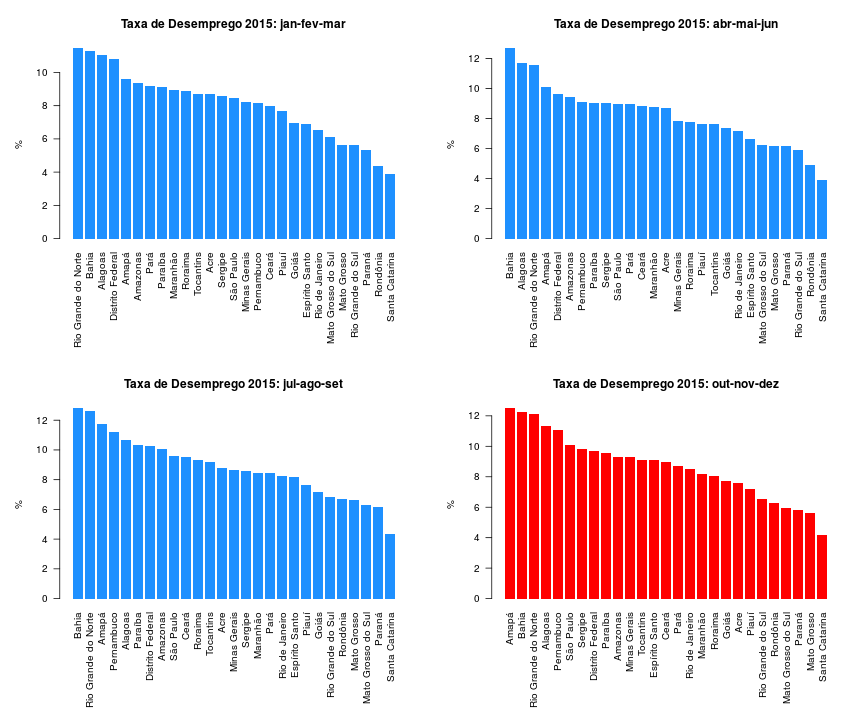
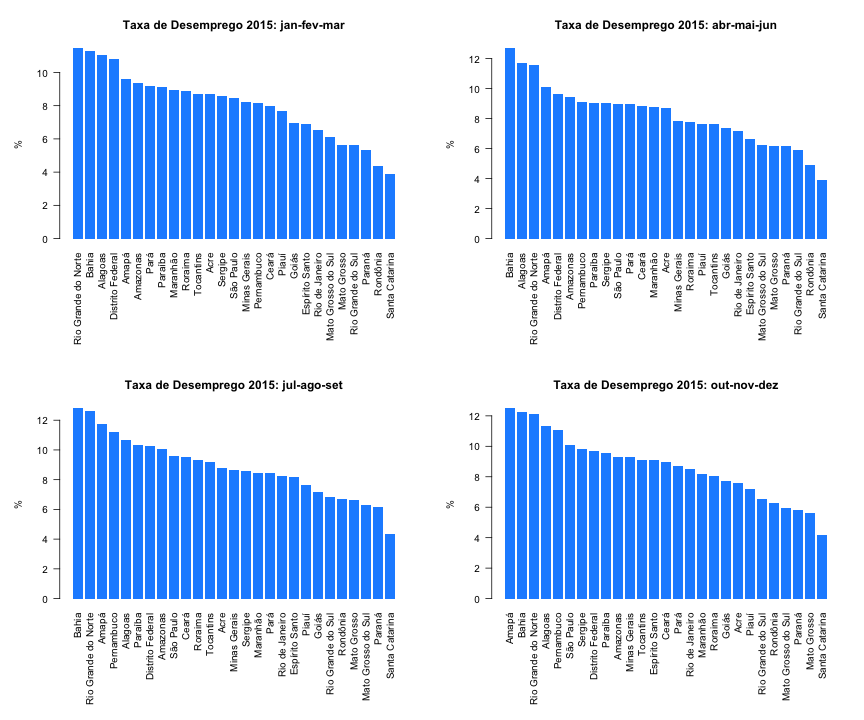
complementando kit 6

diff --git a/source/_posts/2016-04-11-kit-de-sobrevivencia-em-r-parte-6.md b/source/_posts/2016-04-11-kit-de-sobrevivencia-em-r-parte-6.md
@@ -15,15 +15,95 @@ No último post, você aprendeu um pouco sobre os tipos de dados e como realizar
 
 Para exemplificar, utilizaremos os dados de taxas de desemprego que estão disponíveis [neste link](https://www.dropbox.com/s/4tedgnkd85c5q5s/desemprego_uf_pnad.zip?dl=0).
 
-Primeiramente, carregue os dados:
+Antes de mais nada, carregue os dados:
 
 {% highlight r %}
 desemprego.uf <- read.table("desemprego_uf_espaco.txt", sep = " ", dec = ",", stringsAsFactors = FALSE)
 {% endhighlight %}
+# Intuição sobre Loops
+
+Trata-se de um dos conceitos mais importntes de qualquer linguagem de programação. Em R não é diferente. Loops (ou laços) repetem uma sequência de comando quantas vezes você desejar, ou até que uma condição aconteça, variando alguns aspectos entre uma repetição e outra.
+
+Supondo que você queira testar uma simples expressão para 5 valores diferentes, por exemplo:
+
+
+{% highlight r %}
+x <- 2
+(x + x*2 + x^2 + x^x)
+{% endhighlight %}
+
+
+
+{% highlight text %}
+## [1] 14
+{% endhighlight %}
+
+
+
+{% highlight r %}
+x <- 3
+(x + x*2 + x^2 + x^x)
+{% endhighlight %}
+
+
+
+{% highlight text %}
+## [1] 45
+{% endhighlight %}
+
+
+
+{% highlight r %}
+x <- 4
+(x + x*2 + x^2 + x^x)
+{% endhighlight %}
+
+
+
+{% highlight text %}
+## [1] 284
+{% endhighlight %}
+
+
+
+{% highlight r %}
+x <- 5
+(x + x*2 + x^2 + x^x)
+{% endhighlight %}
+
+
+
+{% highlight text %}
+## [1] 3165
+{% endhighlight %}
+
+> Dica: parêntesis em volta de uma expressão faz R mostra o resultado imediatamente 
+
+Repare que você executou 5 vezes o mesmo comando alterando apenas o valor da variável `x`. 5 ainda parece uma quantidade pequena, mas vamos supor que você gostaria de testar essa expressão para 1000 valores? Escreveria ela 1000 vezes? Esse é um típico caso para o uso de loops!
 
 ## for()
 
-O `for()` é usado para realizar uma série de ordens para uma determinada sequência ou índices. No exemplo abaixo, faremos um _loop_ simples, mas que deixa claro como o `for()` funciona. Suponha que você necessita gerar um único plot com quatro gráficos, um para cada trimestre de 2015, da taxa de desemprego por unidade da federação.
+O `for()` é usado para realizar uma série de ordens para uma determinada sequência ou índices. Aplicando ao exemplo acima, temos a seguinte sintaxe:
+
+
+{% highlight r %}
+for(x in c(1, 2, 3, 4, 5)) {
+  print(x + x*2 + x^2 + x^x)
+}
+{% endhighlight %}
+
+
+
+{% highlight text %}
+## [1] 5
+## [1] 14
+## [1] 45
+## [1] 284
+## [1] 3165
+{% endhighlight %}
+Repare, você escreveu bem menos e o resultado foi idêntico: "para cada `x` igual a cada item na sequência `c(1, 2, 3, 4, 5)`, execute `print(x + x*2 + x^2 + x^x)`". O `for()` irá repetir todas as instruções dentro das chaves `{ }`, tantas quantas forem os elementos da sua sequência (vetor)
+
+Vamos a um exemplo mais útil que deixa mais claro como o `for()` funciona. Suponha que você necessita gerar um único plot com quatro gráficos, um para cada trimestre de 2015, da taxa de desemprego por unidade da federação.
 
 Para facilitar, iremos criar um novo data.frame em que estejam selecionadas somente as linhas em que a variável ano é igual a 2015:
 
@@ -32,7 +112,9 @@ Para facilitar, iremos criar um novo data.frame em que estejam selecionadas some
 desemprego.uf.2015 <- desemprego.uf[desemprego.uf$Ano == 2015,]
 {% endhighlight %}
 
-Perceba que no código base do R, para selecionar linhas de um data.frame, você utiliza o `[,]`. A vírgula divide as duas dimensões do data.frame. Assim, se o desejo é selecionar linhas, são utilizadas condições antes da vírgula. Para selecionar colunas, utiliza-se códigos após a vírgula. Funciona de maneira similar a uma matriz. No entanto, esta não é a única maneira de realizar esse filtro nos dados. Por exemplo, você poderia obter o mesmo resultado usando a função `subset()`. Dê uma olhadinha no help.
+Perceba que no código base do R, para selecionar linhas de um data.frame, você utiliza o `[,]`. A vírgula divide as duas dimensões do data.frame. Assim, se o desejo é selecionar linhas, são utilizadas condições antes da vírgula. Para selecionar colunas, utiliza-se códigos após a vírgula. Funciona de maneira similar a uma matriz. 
+
+No entanto, esta não é a única maneira de realizar esse filtro nos dados. Por exemplo, você poderia obter o mesmo resultado usando a função `subset()`. Dê uma olhadinha no help.
 
 Além disso, iremos criar um vetor com os trimestres que serão usados como base para realização do loop.
 
@@ -50,7 +132,8 @@ trimestre
 ## Levels: abr-mai-jun jan-fev-mar jul-ago-set out-nov-dez
 {% endhighlight %}
 
-Antes de criar o plot, vamos realizar um exemplo simples para exemplificar como o `for()` funciona.
+Vamos treinar o `for()` exibindo todos os valores da variável `trimestre`.
+
 
 {% highlight r %}
 for(i in trimestre){
@@ -67,7 +150,8 @@ for(i in trimestre){
 ## [1] "out-nov-dez"
 {% endhighlight %}
 
-Ele realizará a operação que está entre as `{}` para cada `i` do vetor trimestre. Você também pode passar números que poderão ser usados como índices.
+Você também pode passar números que poderão ser usados como índices.
+
 
 {% highlight r %}
 x <- c(1, 4, 5, 6, 10)
@@ -86,9 +170,11 @@ for(i in 1:5){
 ## [1] 10
 {% endhighlight %}
 
-Agora, vamos definir alguns parâmetros do plot. Aqui usaremos o recurso base do R para geração dos gráficos. Atualmente, uma boa parte dos usuários (inclusive a gente) utiliza o [ggplot2](http://docs.ggplot2.org/current/). Com um pouco de criatividade e uma boa base de dados você poderá criar gráficos como o que está [neste post](https://medium.com/airbnb-engineering/using-r-packages-and-education-to-scale-data-science-at-airbnb-906faa58e12d#.z39ukskpb) do Airbnb. Os parâmetros do plot serão definidos usando a função `par()`. Utilize o `?par` para ver mais detalhes sobre esta função e as opções disponíveis.
+Agora vamos definir alguns parâmetros do plot. Aqui usaremos o recurso base do R para geração dos gráficos. Atualmente, uma boa parte dos usuários (inclusive a gente) utiliza o [ggplot2](http://docs.ggplot2.org/current/). 
 
+Com um pouco de criatividade e uma boa base de dados você poderá criar gráficos como o que está [neste post](https://medium.com/airbnb-engineering/using-r-packages-and-education-to-scale-data-science-at-airbnb-906faa58e12d#.z39ukskpb) do Airbnb. Não entraremos em detalhes sobre gráficos agora, mas prometemos uma sequência de posts ensinando todos os principais aspectos da confecção de gráficos, aguarde!
 
+Os parâmetros do plot serão definidos usando a função `par()`. Utilize o `?par` para ver mais detalhes sobre esta função e as opções disponíveis.
 
 
 {% highlight r %}
@@ -100,9 +186,9 @@ par(mfrow = c(2,2), # O plot terá 2 linhas e 2 colunas
 O código abaixo traz o loop. Temos 4 operações dentro do loop:
 
 * Criar o data.frame `dados.tmp` a partir de um filtro no data.frame `desemprego.uf.2015`. Queremos somente as linhas em que o Trimestre é igual a `i`.
-* Usando a função `order()`, ordenar as linhas dos `dados.tmp` de forma decrescente pelo valor da taxa de desemprego.
+* Usando a função `order()`, ordenar as linhas dos `dados.tmp` de forma decrescente pelo valor da taxa de desemprego. Vide `?order()`.
 * Criar um objeto de texto que trará o título de cada gráfico. Usamos a função `paste()` que tem o papel de concatenar o que for passado como argumento. Usamos espaço como separador, mas você pode passar qualquer separador entre as aspas. Esta função tem mais um parâmetro: `collapse`. Dê uma olhada no help para ver alguns exemplos. Note também que ele já tem um valor padrão `NULL`.
-* Por fim, usamos o `barplot()` para criar o gráfico de barra.
+* Por fim, usamos o `barplot()` para criar o gráfico de barra. Vide `?barplot()`.
 
 
 {% highlight r %}
@@ -121,13 +207,15 @@ for(i in trimestre){
 
 Veja o resultado:
 
-![plot of chunk unnamed-chunk-9](/figures/source/2016-04-11-kit-de-sobrevivencia-em-r-parte-6/unnamed-chunk-9-1.png)
+![plot of chunk unnamed-chunk-11](/figures/source/2016-04-11-kit-de-sobrevivencia-em-r-parte-6/unnamed-chunk-11-1.png)
 
-O gif abaixo mostra como o R vai inserindo gráfico a gráfico. Adicionei o comando `Sys.sleep()` para que a execução fosse suspensa durante 1,5 segundo para ficar mais claro a criação de cada gráfico.
+O gif abaixo mostra como o R vai inserindo gráfico a gráfico. Adicionei o comando `Sys.sleep()` para que a execução fosse suspensa durante 1,5 segundo para ficar mais claro a criação de cada gráfico e ter a sensação do loop criando um por um (na realidade isso acontece quase instantaneamente!).
 
 ![alt Usando o for](/images/forloop.gif "Usando o for")
 
 ## if e else
+
+Outro clássico conceito de programação que você usará muito é o if e else. É uma estrutura condicional, que usa os operadores lógicos apresentados [no post anterior]({{root_url}}/blog/2016/04/21/kit-de-sobrevivencia-em-r-parte-5/). Se a condição do `if()` for verdadeira, executa os comandos dentro das chaves `{ }`, se não for verdadeiro, executa os comando da chave do `else { }`
 
 Para exemplificar o uso do if e else, vamos continuar com o exemplo anterior, mas desta vez queremos que as barras para o trimestre `out-nov-dez` sejam vermelhas. Dessa forma, usaremos os controles if e else. A ideia é realizar um teste sobre `i` que assume um valor do vetor `trimestre`. Assim, se `i` for igual a `out-nov-dez` a cor será ver vermelha (`col = red`), caso contrário utilizaremos o azul (`col = dodgerblue`).
 
@@ -153,9 +241,9 @@ for(i in trimestre){
 }
 {% endhighlight %}
 
-![plot of chunk unnamed-chunk-10](/figures/source/2016-04-11-kit-de-sobrevivencia-em-r-parte-6/unnamed-chunk-10-1.png)
+![plot of chunk unnamed-chunk-12](/figures/source/2016-04-11-kit-de-sobrevivencia-em-r-parte-6/unnamed-chunk-12-1.png)
 
-Podemos reescrever o código acima com o comando `ifelse()` e obter o mesmo resultado. Para isso, iremos usar o comando `ifelse()` no argumento `col`. O primeiro agumento dessa função é o teste que você deseja realizar (saber se o trimestre é ou não é igual a `out-nov-dez`), o segundo é o valor desejado caso seja verdade e o último é o valor a ser retornado caso a condição não seja satisfeita.
+Podemos reescrever o código acima com o comando `ifelse()` e obter o mesmo resultado (veja `?ifelse()`). Para isso, iremos usar o comando `ifelse()` no argumento `col`. O primeiro agumento dessa função é o teste que você deseja realizar (saber se o trimestre é ou não é igual a `out-nov-dez`), o segundo é o valor desejado caso seja verdade e o último é o valor a ser retornado caso a condição não seja satisfeita.
 
 
 {% highlight r %}
@@ -175,7 +263,7 @@ for(i in trimestre){
 }
 {% endhighlight %}
 
-![plot of chunk unnamed-chunk-11](/figures/source/2016-04-11-kit-de-sobrevivencia-em-r-parte-6/unnamed-chunk-11-1.png)
+![plot of chunk unnamed-chunk-13](/figures/source/2016-04-11-kit-de-sobrevivencia-em-r-parte-6/unnamed-chunk-13-1.png)
 
 O `ifelse()`tem uma característica importante. Enquanto o `if()` aceita apensas um único teste (comprimento um), o `ifelse` pode receber um vetor para testes e aplicar as condições para este conjunto de teste. Para ficar mais claro veja o exemplo abaixo.
 
@@ -205,6 +293,8 @@ head(desemprego.uf.2015, 10)
 
 ## while, repeat, break, next
 
+Além do `for()`, temos também outras estruturas de loop que funcionam de maneira semelhante, mudando somente a condição para execução das repetições.
+
 O `while()` é uma estrutura de controle utilizada para realizar um loop enquanto uma condição for satisfeita. Aqui realizaremos um loop simples somente para demonstrar o funcionamento do `while()`. Será criado um objeto `i` igual a 1 e iremos mostrá-lo no console enquanto for menor ou igual a 5. A cada iteração será adicionado 1 ao valor de `i`. 
 
 
@@ -212,7 +302,7 @@ O `while()` é uma estrutura de controle utilizada para realizar um loop enquant
 i <- 1
 while(i <= 5){
   print(i)
-  i <-i + 1
+  i <- i + 1
 }
 {% endhighlight %}
 
@@ -226,9 +316,11 @@ while(i <= 5){
 ## [1] 5
 {% endhighlight %}
 
-Como você notou no exemplo do `if` e `else`, o R permite que um loop seja elaborado com várias estruturas de controle. Usaremos isto para exemplificar o funcionamento do `repeat` e do `break`. Além disso, também utilizaremos o `if`. O `repeat` realiza as operações que estão entre `{}` indefinidamente. Obviamente, quase sempre  iremos querer que o loop termine caso alguma coisa aconteça. Dessa forma, temos que criar uma condição para que ele pare e uma instrução dizendo que o loop deve terminar caso a condição seja satisfeita. 
+Como você notou no exemplo do `if` e `else`, o R permite que um loop seja elaborado com várias estruturas de controle. Usaremos isto para exemplificar o funcionamento do `repeat` e do `break`. 
 
-No exemplo abaixo, iremos novamente incrementar o objeto `i`, mas queremos que estas operações parem se ele superar 6. Veja o código abaixo.
+O `repeat` realiza as operações que estão entre `{}` indefinidamente. Obviamente, não iremos querer executar nada para sempre, iremos querer que o loop termine caso alguma coisa aconteça. Dessa forma, temos que criar uma condição para que ele pare e uma instrução dizendo que o loop deve terminar caso a condição seja satisfeita. 
+
+No exemplo abaixo, iremos novamente incrementar o objeto `i`, mas queremos que estas operações parem se ele superar 6, ou seja, no meio da execução vamos verificar se a condição de parada acontece. Veja o código abaixo:
 
 
 {% highlight r %}
@@ -253,7 +345,7 @@ repeat{
 ## [1] 6
 {% endhighlight %}
 
-Por fim, o `next` é usado para pular para a próxima iteração caso uma determinada condição seja satisfeita.
+Por fim, o `next` é usado para pular para a próxima iteração caso uma determinada condição seja satisfeita. É muito usado quando você quer ignorar certas repetições, por exemplo?
 
 
 {% highlight r %}
@@ -281,7 +373,7 @@ Perceba que não há necessidade das `{}` se a operação a ser executada em um 
 
 ## Algumas observações
 
-Muitas operações que usam loops podem ser realizadas a partir de outros comandos de maneira mais rápida. Os loops no R são conhecidos por serem lentos e dependendo do seu problema eles se tornam inviáveis. No entanto, existem algumas práticas que tornam os loops mais rápidos. Não iremos tratar disso por agora, mas aqueles que tiverem mais curiosidade podem encontrar mais informações [aqui](https://www.datacamp.com/community/tutorials/tutorial-on-loops-in-r).
+Muitas operações que usam loops podem ser realizadas a partir de outros comandos de maneira mais rápida (família `apply()`, por exemplo). Os loops no R são conhecidos por serem lentos e dependendo do seu problema eles se tornam inviáveis. No entanto, existem algumas práticas que tornam os loops mais rápidos. Não iremos tratar disso por agora, mas aqueles que tiverem mais curiosidade podem encontrar mais informações [aqui](https://www.datacamp.com/community/tutorials/tutorial-on-loops-in-r).
 
 ## Desafio
 
